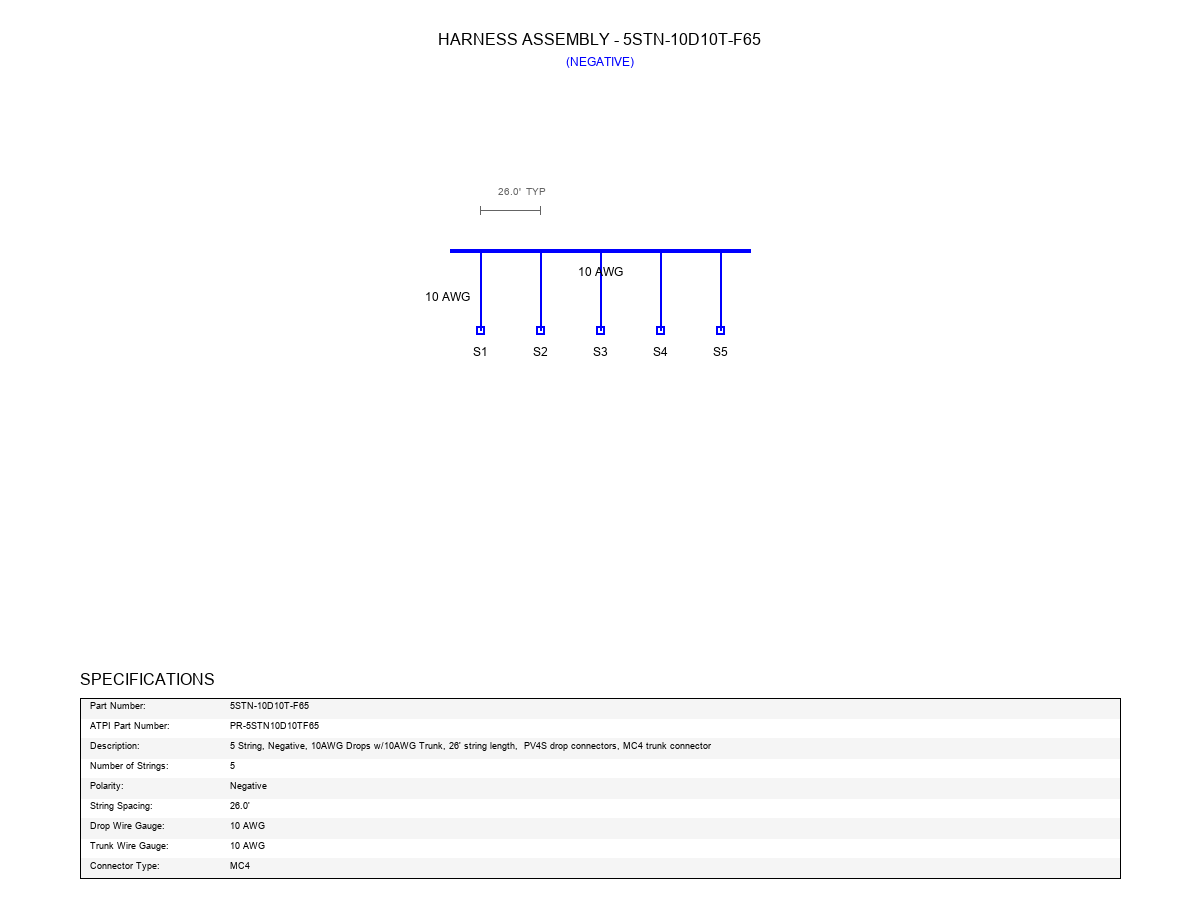
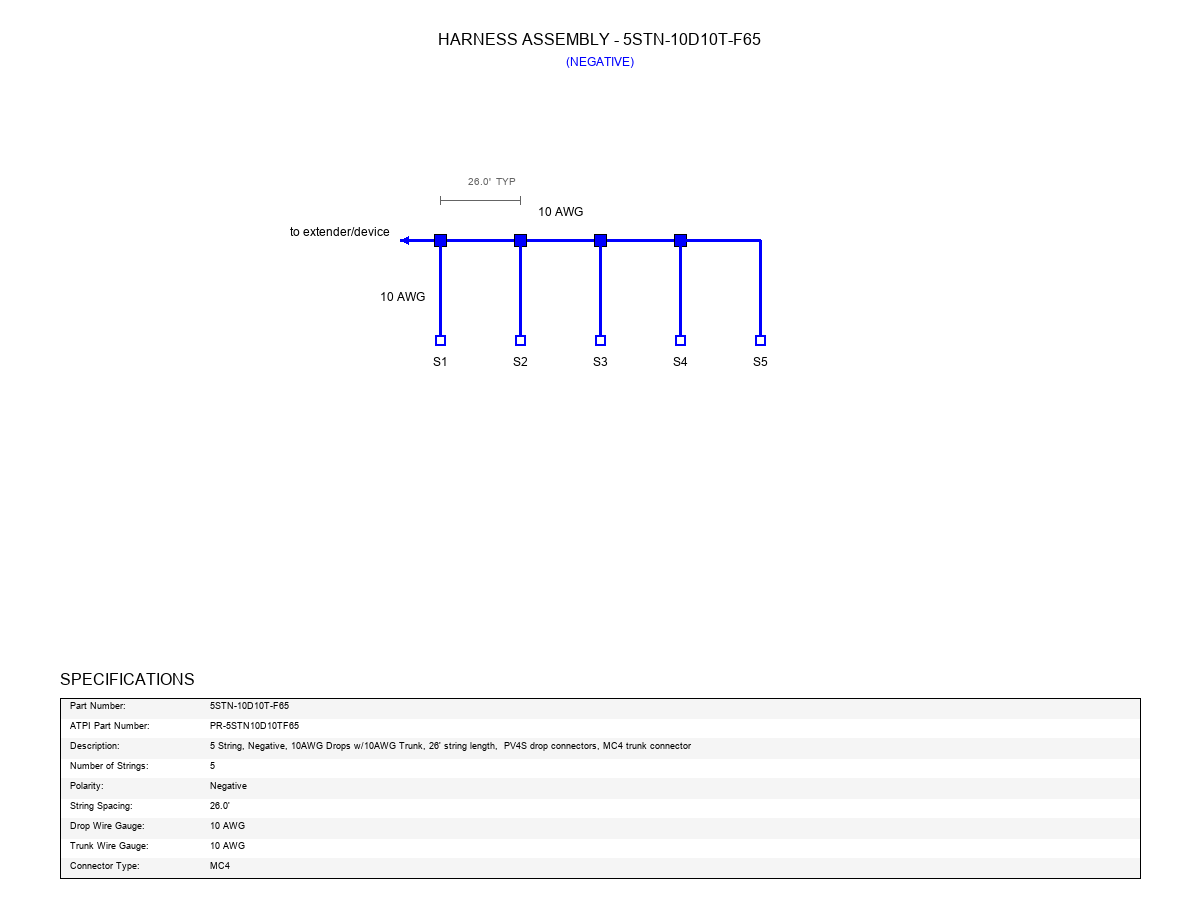
clean up harness drawings

diff --git a/solar_bom/src/utils/harness_drawing_generator.py b/solar_bom/src/utils/harness_drawing_generator.py
@@ -12,12 +12,20 @@ class HarnessDrawingGenerator:
         self.harness_library_path = harness_library_path
         self.harness_library = self.load_harness_library()
         
-        # Drawing constants
+        # Drawing constants - make drawing bigger
         self.canvas_width = 1200
         self.canvas_height = 900
-        self.margin = 80
+        self.margin = 60
         self.drawing_area_width = self.canvas_width - (2 * self.margin)
-        self.drawing_area_height = 600
+        self.drawing_area_height = 700
+        
+        # Wire thickness mapping based on AWG size
+        self.wire_thickness = {
+            "4 AWG": 6,
+            "6 AWG": 5,
+            "8 AWG": 4,
+            "10 AWG": 3
+        }
         
         # Colors
         self.bg_color = (255, 255, 255)  # White
@@ -93,48 +101,139 @@ class HarnessDrawingGenerator:
         spacing_ft = harness_spec['string_spacing_ft']
         polarity = harness_spec['polarity']
         
-        # Calculate positions
-        diagram_start_y = 150
-        trunk_y = diagram_start_y + 100
+        # Calculate positions - make diagram bigger
+        diagram_start_y = 120
+        trunk_y = diagram_start_y + 120
         
-        # Calculate total width needed for the harness
-        total_harness_width = (num_strings - 1) * 60  # 60 pixels per string spacing
-        if total_harness_width > self.drawing_area_width - 200:
+        # Calculate total width needed for the harness - use more space
+        total_harness_width = (num_strings - 1) * 80  # 80 pixels per string spacing
+        if total_harness_width > self.drawing_area_width - 300:
             # Scale down if too wide
-            string_spacing_px = (self.drawing_area_width - 200) // (num_strings - 1)
+            string_spacing_px = (self.drawing_area_width - 300) // (num_strings - 1)
             total_harness_width = (num_strings - 1) * string_spacing_px
         else:
-            string_spacing_px = 60
+            string_spacing_px = 80
         
         # Center the harness horizontally
         harness_start_x = self.margin + (self.drawing_area_width - total_harness_width) // 2
-        harness_end_x = harness_start_x + total_harness_width
+        # Trunk stops at second-to-last string (no T-connector on last string)
+        harness_end_x = harness_start_x + ((num_strings - 2) * string_spacing_px) if num_strings > 1 else harness_start_x
         
-        # Draw main trunk line
+        # Get wire thicknesses
         trunk_color = self.pos_color if polarity == 'positive' else self.neg_color
-        trunk_thickness = 4
+        trunk_thickness = self.wire_thickness.get(harness_spec['trunk_wire_gauge'], 4)
+        drop_thickness = self.wire_thickness.get(harness_spec['drop_wire_gauge'], 3)
         
-        draw.line([harness_start_x, trunk_y, harness_end_x, trunk_y], 
+        # Draw main trunk line - stops at second-to-last string
+        if num_strings > 1:
+            draw.line([harness_start_x, trunk_y, harness_end_x, trunk_y], 
+                     fill=trunk_color, width=trunk_thickness)
+        
+        # Draw left side connector with "to extender/device" label and arrow
+        connector_length = 40
+        arrow_start_x = harness_start_x - connector_length
+        
+        # Draw connector line
+        draw.line([arrow_start_x, trunk_y, harness_start_x, trunk_y], 
                  fill=trunk_color, width=trunk_thickness)
         
-        # Draw string drops
-        drop_length = 80
-        drop_thickness = 2
+        # Draw arrow head pointing left
+        arrow_size = 8
+        draw.polygon([
+            (arrow_start_x, trunk_y),
+            (arrow_start_x + arrow_size, trunk_y - arrow_size//2),
+            (arrow_start_x + arrow_size, trunk_y + arrow_size//2)
+        ], fill=trunk_color)
+        
+        # Add "to extender/device" label
+        label_text = "to extender/device"
+        bbox = draw.textbbox((0, 0), label_text, font=self.label_font)
+        label_width = bbox[2] - bbox[0]
+        label_x = arrow_start_x - label_width - 10
+        draw.text((label_x, trunk_y - 15), label_text, 
+                 fill=self.line_color, font=self.label_font)
+        
+        # Draw string drops with T-connectors and in-line fuses
+        drop_length = 100
         
         for i in range(num_strings):
             drop_x = harness_start_x + (i * string_spacing_px)
             drop_start_y = trunk_y
             drop_end_y = trunk_y + drop_length
             
-            # Draw vertical drop line
-            draw.line([drop_x, drop_start_y, drop_x, drop_end_y], 
-                     fill=trunk_color, width=drop_thickness)
+            # Draw T-connector at intersection (all strings except the last one)
+            if i < num_strings - 1:
+                t_size = 12
+                draw.rectangle([drop_x - t_size//2, trunk_y - t_size//2,
+                              drop_x + t_size//2, trunk_y + t_size//2],
+                             fill=trunk_color, outline=self.line_color, width=1)
+            
+            # For the last string, route it back to the previous T-connector
+            if i == num_strings - 1 and num_strings > 1:
+                # Last string connects to previous T-connector
+                prev_t_x = harness_start_x + ((i - 1) * string_spacing_px)
+                
+                # Draw horizontal line from last string position to previous T-connector
+                draw.line([prev_t_x, trunk_y, drop_x, trunk_y], 
+                         fill=trunk_color, width=drop_thickness)
+                
+                # Calculate fuse position for last string
+                fuse_y = drop_start_y + drop_length // 3
+                
+                # Draw the drop line from the horizontal connection
+                draw.line([drop_x, trunk_y, drop_x, fuse_y - 10], 
+                         fill=trunk_color, width=drop_thickness)
+                
+                # Draw in-line fuse if this harness is fused
+                if harness_spec.get('fused', False):
+                    fuse_size = 16
+                    draw.rectangle([drop_x - fuse_size//2, fuse_y - fuse_size//2,
+                                  drop_x + fuse_size//2, fuse_y + fuse_size//2],
+                                 outline=self.line_color, width=2, fill='white')
+                    
+                    # Draw lower part of drop (fuse to connector)
+                    draw.line([drop_x, fuse_y + 10, drop_x, drop_end_y], 
+                             fill=trunk_color, width=drop_thickness)
+                else:
+                    # No fuse - draw complete drop line
+                    draw.line([drop_x, trunk_y, drop_x, drop_end_y], 
+                             fill=trunk_color, width=drop_thickness)
+            else:
+                # Regular strings (not the last one)
+                # Calculate fuse position (middle of drop line for in-line fuses)
+                fuse_y = drop_start_y + drop_length // 3
+                
+                # Draw upper part of drop (trunk to fuse)
+                draw.line([drop_x, drop_start_y, drop_x, fuse_y - 10], 
+                         fill=trunk_color, width=drop_thickness)
+                
+                # Draw in-line fuse if this harness is fused
+                if harness_spec.get('fused', False):
+                    fuse_size = 16
+                    draw.rectangle([drop_x - fuse_size//2, fuse_y - fuse_size//2,
+                                  drop_x + fuse_size//2, fuse_y + fuse_size//2],
+                                 outline=self.line_color, width=2, fill='white')
+                    
+                    # Add fuse rating label on first fuse only - position to the right
+                    if i == 0:
+                        fuse_rating = harness_spec.get('fuse_rating', '')
+                        if fuse_rating:
+                            draw.text((drop_x + fuse_size//2 + 10, fuse_y - 8), 
+                                     fuse_rating, fill=self.line_color, font=self.dim_font)
+                    
+                    # Draw lower part of drop (fuse to connector)
+                    draw.line([drop_x, fuse_y + 10, drop_x, drop_end_y], 
+                             fill=trunk_color, width=drop_thickness)
+                else:
+                    # No fuse - draw complete drop line
+                    draw.line([drop_x, drop_start_y, drop_x, drop_end_y], 
+                             fill=trunk_color, width=drop_thickness)
             
             # Draw connector symbol at end of drop
-            connector_size = 8
+            connector_size = 10
             draw.rectangle([drop_x - connector_size//2, drop_end_y - connector_size//2,
                           drop_x + connector_size//2, drop_end_y + connector_size//2],
-                         outline=trunk_color, width=2)
+                         outline=trunk_color, width=2, fill='white')
             
             # Label each string
             string_label = f"S{i+1}"
@@ -143,29 +242,12 @@ class HarnessDrawingGenerator:
             draw.text((drop_x - text_width//2, drop_end_y + 15), string_label, 
                      fill=self.line_color, font=self.label_font)
         
-        # Draw trunk connectors at ends
-        connector_length = 30
-        connector_thickness = 4
-        
-        # Left trunk connector
-        draw.line([harness_start_x - connector_length, trunk_y, harness_start_x, trunk_y], 
-                 fill=trunk_color, width=connector_thickness)
-        
-        # Right trunk connector  
-        draw.line([harness_end_x, trunk_y, harness_end_x + connector_length, trunk_y], 
-                 fill=trunk_color, width=connector_thickness)
-        
         # Draw spacing dimensions
         self.draw_spacing_dimensions(draw, harness_start_x, trunk_y, string_spacing_px, 
                                    num_strings, spacing_ft)
         
         # Draw wire gauge labels
         self.draw_wire_gauge_labels(draw, harness_spec, harness_start_x, harness_end_x, trunk_y)
-        
-        # Draw fuse indicators if fused
-        if harness_spec.get('fused', False):
-            self.draw_fuse_indicators(draw, harness_start_x, trunk_y, string_spacing_px, 
-                                    num_strings, harness_spec.get('fuse_rating', ''))
     
     def draw_spacing_dimensions(self, draw: ImageDraw, start_x: int, trunk_y: int, 
                               spacing_px: int, num_strings: int, spacing_ft: float):
@@ -207,18 +289,18 @@ class HarnessDrawingGenerator:
         drop_gauge = harness_spec['drop_wire_gauge']
         trunk_gauge = harness_spec['trunk_wire_gauge']
         
-        # Label trunk wire gauge
+        # Label trunk wire gauge ABOVE the trunk line
         trunk_center_x = (start_x + end_x) // 2
         bbox = draw.textbbox((0, 0), trunk_gauge, font=self.label_font)
         text_width = bbox[2] - bbox[0]
-        draw.text((trunk_center_x - text_width//2, trunk_y + 15), trunk_gauge, 
+        draw.text((trunk_center_x - text_width//2, trunk_y - 35), trunk_gauge, 
                  fill=self.line_color, font=self.label_font)
         
         # Label drop wire gauge (on first drop)
         drop_x = start_x
         bbox = draw.textbbox((0, 0), drop_gauge, font=self.label_font)
         text_width = bbox[2] - bbox[0]
-        draw.text((drop_x - text_width - 10, trunk_y + 40), drop_gauge, 
+        draw.text((drop_x - text_width - 15, trunk_y + 50), drop_gauge, 
                  fill=self.line_color, font=self.label_font)
     
     def draw_fuse_indicators(self, draw: ImageDraw, start_x: int, trunk_y: int, 

diff --git a/solar_bom/src/ui/harness_designer.py b/solar_bom/src/ui/harness_designer.py
@@ -166,14 +166,14 @@ class HarnessDesigner(tk.Toplevel):
         ttk.Label(wire_frame, text="Drop Wire Gauge:").grid(row=0, column=0, padx=5, pady=2, sticky=tk.W)
         self.drop_wire_gauge_var = tk.StringVar(value="10 AWG")
         drop_combo = ttk.Combobox(wire_frame, textvariable=self.drop_wire_gauge_var, state='readonly', width=15)
-        drop_combo['values'] = ('4 AWG', '6 AWG', '8 AWG', '10 AWG', '12 AWG')
+        drop_combo['values'] = ('4 AWG', '6 AWG', '8 AWG', '10 AWG')
         drop_combo.grid(row=0, column=1, padx=5, pady=2)
         
         # Trunk Wire Gauge
         ttk.Label(wire_frame, text="Trunk Wire Gauge:").grid(row=0, column=2, padx=5, pady=2, sticky=tk.W)
         self.trunk_wire_gauge_var = tk.StringVar(value="8 AWG")
         trunk_combo = ttk.Combobox(wire_frame, textvariable=self.trunk_wire_gauge_var, state='readonly', width=15)
-        trunk_combo['values'] = ('4 AWG', '6 AWG', '8 AWG', '10 AWG', '12 AWG')
+        trunk_combo['values'] = ('4 AWG', '6 AWG', '8 AWG', '10 AWG')
         trunk_combo.grid(row=0, column=3, padx=5, pady=2)
         
         # Connector Type
